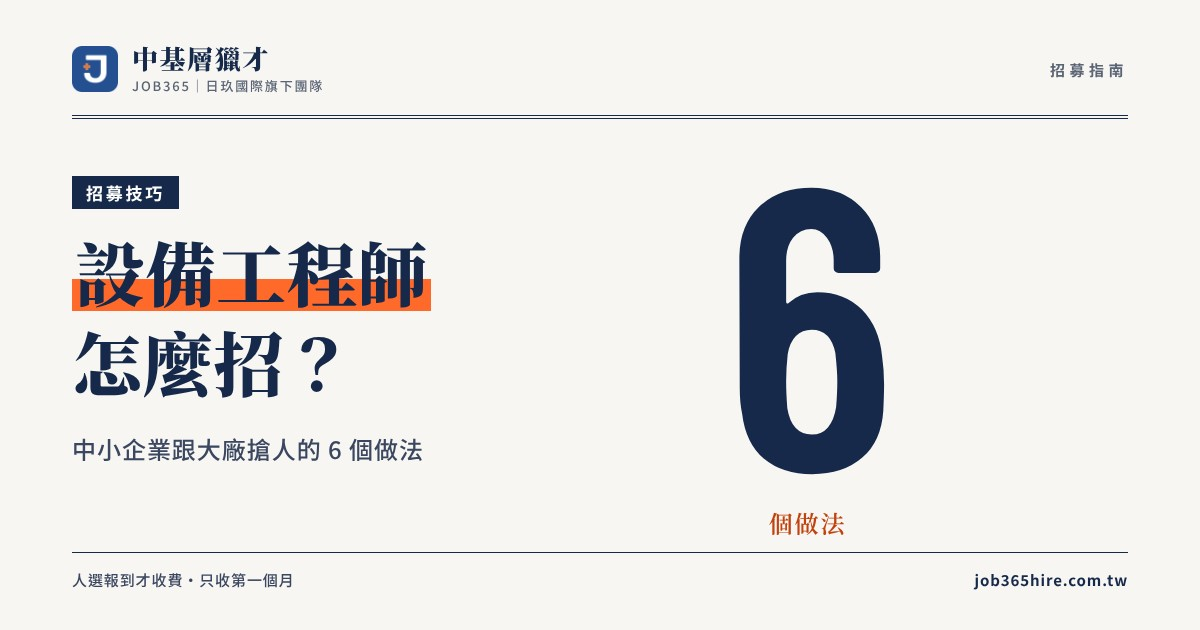
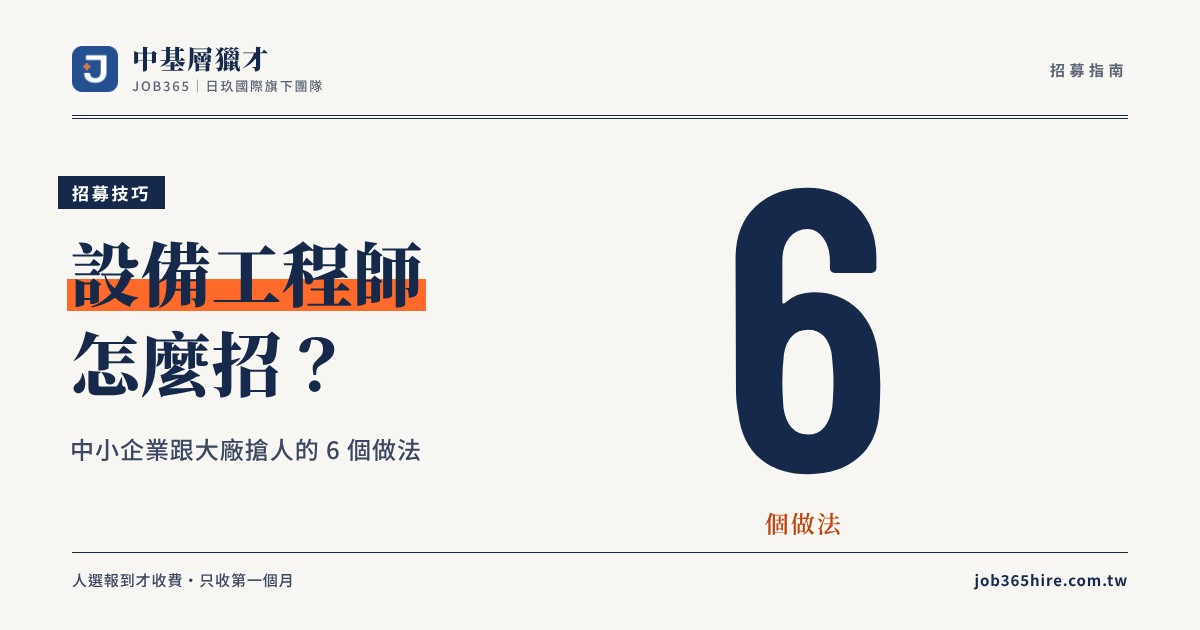
封面對齊修正：標籤文字與標題左緣對齊，數字單位改放數字旁
Claude-Session: https://claude.ai/code/session_01QrdtCWQutDZ8DS6ZUmwoLm

diff --git a/hire/guide/what-is-recruitment-outsourcing.html b/hire/guide/what-is-recruitment-outsourcing.html
@@ -79,10 +79,10 @@ visibleID = setInterval(() => {
 <meta property="og:type" content="article">
 <meta property="og:title" content="代招是什麼？正職代招和派遣、人力銀行、獵頭一次比較">
 <meta property="og:description" content="代招（正職代招、委託招募）是企業委託代招團隊找人、篩人，人選錄取後直接成為企業自己的正職員工，勞健保由企業投保。本文整理代招和派遣、人力銀行、獵頭的差別，代招收費的法定上限、委託流程、不適合用代招的情況與常見問題。">
-<meta property="og:image" content="https://job365hire.com.tw/hire/guide/cover-what-is-recruitment-outsourcing.jpg?v=3">
+<meta property="og:image" content="https://job365hire.com.tw/hire/guide/cover-what-is-recruitment-outsourcing.jpg?v=4">
 <meta property="og:url" content="https://job365hire.com.tw/hire/guide/what-is-recruitment-outsourcing.html">
 <script type="application/ld+json">
-[{"@context": "https://schema.org", "@type": "Article", "headline": "代招是什麼？正職代招和派遣、人力銀行、獵頭一次比較", "datePublished": "2026-10-30", "dateModified": "2026-11-12", "about": "正職代招", "keywords": "代招,代招是什麼,正職代招,委託招募,代招費用,代招收費上限,代招公司,代招 派遣 差別,代招 勞健保,中基層獵才,人力仲介,人力仲介 代招 差別", "inLanguage": "zh-Hant-TW", "image": "https://job365hire.com.tw/hire/guide/cover-what-is-recruitment-outsourcing.jpg?v=3", "author": {"@id": "https://job365hire.com.tw/#org"}, "publisher": {"@id": "https://job365hire.com.tw/#org"}, "mainEntityOfPage": "https://job365hire.com.tw/hire/guide/what-is-recruitment-outsourcing.html", "description": "代招（正職代招、委託招募）是企業委託代招團隊找人、篩人，人選錄取後直接成為企業自己的正職員工，勞健保由企業投保。本文整理代招和派遣、人力銀行、獵頭的差別，代招收費的法定上限、委託流程、不適合用代招的情況與常見問題。"}, {"@context": "https://schema.org", "@type": "BreadcrumbList", "itemListElement": [{"@type": "ListItem", "position": 1, "name": "JOB365", "item": "https://job365hire.com.tw/"}, {"@type": "ListItem", "position": 2, "name": "正職代招", "item": "https://job365hire.com.tw/hire/"}, {"@type": "ListItem", "position": 3, "name": "招募指南", "item": "https://job365hire.com.tw/hire/guide/"}, {"@type": "ListItem", "position": 4, "name": "代招是什麼？"}]}, {"@context": "https://schema.org", "@type": "FAQPage", "mainEntity": [{"@type": "Question", "name": "代招是什麼意思？", "acceptedAnswer": {"@type": "Answer", "text": "代招又稱正職代招、委託招募，是企業委託代招團隊找人、篩人、安排面試，人選錄取後直接和企業簽約，成為企業自己的正職員工。"}}, {"@type": "Question", "name": "正職代招和派遣有什麼不同？", "acceptedAnswer": {"@type": "Answer", "text": "正職代招的人選錄取後直接成為企業的正職員工；派遣人員和派遣公司簽約，企業是要派單位，費用每月持續支付。"}}, {"@type": "Question", "name": "正職代招和人力銀行有什麼不同？", "acceptedAnswer": {"@type": "Answer", "text": "人力銀行由企業自己刊登、自己篩選；正職代招由顧問主動獵才、一對一面談後才推薦人選。"}}, {"@type": "Question", "name": "人力仲介和正職代招有什麼不同？", "acceptedAnswer": {"@type": "Answer", "text": "人力仲介多半指引進外籍移工的跨國仲介；正職代招找的是本國籍中基層正職員工，錄取後直接成為企業的員工。兩者都是私立就業服務機構的業務，都需要許可。"}}, {"@type": "Question", "name": "代招找到的員工，勞健保算誰的？", "acceptedAnswer": {"@type": "Answer", "text": "算企業的。人選錄取後和企業簽勞動契約，由企業發薪、投保勞健保與提繳勞退，代招公司不是雇主。"}}, {"@type": "Question", "name": "代招收費有沒有上限？", "acceptedAnswer": {"@type": "Answer", "text": "有。依勞動部〈私立就業服務機構收費項目及金額標準〉，員工第一個月薪資在平均薪資以下者，登記費及介紹費合計不得超過其第一個月薪資；超過平均薪資者不得超過四個月薪資；服務費每人每年不得超過 2,000 元。"}}, {"@type": "Question", "name": "代招費用一定要人選到職才付嗎？", "acceptedAnswer": {"@type": "Answer", "text": "各家做法不同，委託前要問清楚。中基層獵才不收開案費、訂金，人選報到才收費。"}}, {"@type": "Question", "name": "什麼職缺適合正職代招？", "acceptedAnswer": {"@type": "Answer", "text": "會計、客服、設備工程師、倉管、助理工程師、行政與業務助理等中基層正職，特別適合職缺開很久沒人投、沒有專職 HR 或一次要補多人的企業。"}}, {"@type": "Question", "name": "公司規模小，也可以用代招嗎？", "acceptedAnswer": {"@type": "Answer", "text": "可以。沒有專職 HR 的中小企業反而最適合，由顧問處理找人、篩人與面試安排，老闆只需要面試最後幾位人選。"}}, {"@type": "Question", "name": "正職代招怎麼收費？", "acceptedAnswer": {"@type": "Answer", "text": "中基層獵才人選報到才收費，只收第一個月，依職缺 500～2,000 元／天，最多約人選一個月薪資，第二個月起不再收費。"}}]}]
+[{"@context": "https://schema.org", "@type": "Article", "headline": "代招是什麼？正職代招和派遣、人力銀行、獵頭一次比較", "datePublished": "2026-10-30", "dateModified": "2026-11-12", "about": "正職代招", "keywords": "代招,代招是什麼,正職代招,委託招募,代招費用,代招收費上限,代招公司,代招 派遣 差別,代招 勞健保,中基層獵才,人力仲介,人力仲介 代招 差別", "inLanguage": "zh-Hant-TW", "image": "https://job365hire.com.tw/hire/guide/cover-what-is-recruitment-outsourcing.jpg?v=4", "author": {"@id": "https://job365hire.com.tw/#org"}, "publisher": {"@id": "https://job365hire.com.tw/#org"}, "mainEntityOfPage": "https://job365hire.com.tw/hire/guide/what-is-recruitment-outsourcing.html", "description": "代招（正職代招、委託招募）是企業委託代招團隊找人、篩人，人選錄取後直接成為企業自己的正職員工，勞健保由企業投保。本文整理代招和派遣、人力銀行、獵頭的差別，代招收費的法定上限、委託流程、不適合用代招的情況與常見問題。"}, {"@context": "https://schema.org", "@type": "BreadcrumbList", "itemListElement": [{"@type": "ListItem", "position": 1, "name": "JOB365", "item": "https://job365hire.com.tw/"}, {"@type": "ListItem", "position": 2, "name": "正職代招", "item": "https://job365hire.com.tw/hire/"}, {"@type": "ListItem", "position": 3, "name": "招募指南", "item": "https://job365hire.com.tw/hire/guide/"}, {"@type": "ListItem", "position": 4, "name": "代招是什麼？"}]}, {"@context": "https://schema.org", "@type": "FAQPage", "mainEntity": [{"@type": "Question", "name": "代招是什麼意思？", "acceptedAnswer": {"@type": "Answer", "text": "代招又稱正職代招、委託招募，是企業委託代招團隊找人、篩人、安排面試，人選錄取後直接和企業簽約，成為企業自己的正職員工。"}}, {"@type": "Question", "name": "正職代招和派遣有什麼不同？", "acceptedAnswer": {"@type": "Answer", "text": "正職代招的人選錄取後直接成為企業的正職員工；派遣人員和派遣公司簽約，企業是要派單位，費用每月持續支付。"}}, {"@type": "Question", "name": "正職代招和人力銀行有什麼不同？", "acceptedAnswer": {"@type": "Answer", "text": "人力銀行由企業自己刊登、自己篩選；正職代招由顧問主動獵才、一對一面談後才推薦人選。"}}, {"@type": "Question", "name": "人力仲介和正職代招有什麼不同？", "acceptedAnswer": {"@type": "Answer", "text": "人力仲介多半指引進外籍移工的跨國仲介；正職代招找的是本國籍中基層正職員工，錄取後直接成為企業的員工。兩者都是私立就業服務機構的業務，都需要許可。"}}, {"@type": "Question", "name": "代招找到的員工，勞健保算誰的？", "acceptedAnswer": {"@type": "Answer", "text": "算企業的。人選錄取後和企業簽勞動契約，由企業發薪、投保勞健保與提繳勞退，代招公司不是雇主。"}}, {"@type": "Question", "name": "代招收費有沒有上限？", "acceptedAnswer": {"@type": "Answer", "text": "有。依勞動部〈私立就業服務機構收費項目及金額標準〉，員工第一個月薪資在平均薪資以下者，登記費及介紹費合計不得超過其第一個月薪資；超過平均薪資者不得超過四個月薪資；服務費每人每年不得超過 2,000 元。"}}, {"@type": "Question", "name": "代招費用一定要人選到職才付嗎？", "acceptedAnswer": {"@type": "Answer", "text": "各家做法不同，委託前要問清楚。中基層獵才不收開案費、訂金，人選報到才收費。"}}, {"@type": "Question", "name": "什麼職缺適合正職代招？", "acceptedAnswer": {"@type": "Answer", "text": "會計、客服、設備工程師、倉管、助理工程師、行政與業務助理等中基層正職，特別適合職缺開很久沒人投、沒有專職 HR 或一次要補多人的企業。"}}, {"@type": "Question", "name": "公司規模小，也可以用代招嗎？", "acceptedAnswer": {"@type": "Answer", "text": "可以。沒有專職 HR 的中小企業反而最適合，由顧問處理找人、篩人與面試安排，老闆只需要面試最後幾位人選。"}}, {"@type": "Question", "name": "正職代招怎麼收費？", "acceptedAnswer": {"@type": "Answer", "text": "中基層獵才人選報到才收費，只收第一個月，依職缺 500～2,000 元／天，最多約人選一個月薪資，第二個月起不再收費。"}}]}]
 </script>
 
 <script>!function(f,b,e,v,n,t,s){if(f.fbq)return;n=f.fbq=function(){n.callMethod?n.callMethod.apply(n,arguments):n.queue.push(arguments)};if(!f._fbq)f._fbq=n;n.push=n;n.loaded=!0;n.version='2.0';n.queue=[];t=b.createElement(e);t.async=!0;t.src=v;s=b.getElementsByTagName(e)[0];s.parentNode.insertBefore(t,s)}(window,document,'script','https://connect.facebook.net/en_US/fbevents.js');fbq('init','1635805244779203');fbq('track','PageView');document.addEventListener('click',function(e){var a=e.target.closest&&e.target.closest('a[href]');if(a&&/^(tel:|https:\/\/(line\.me|lin\.ee)\/)/.test(a.getAttribute('href')))fbq('track','Contact');});</script>
@@ -107,7 +107,7 @@ visibleID = setInterval(() => {
   <p class="tag">代招入門</p>
   <h1>代招是什麼？正職代招和派遣、人力銀行、獵頭一次比較</h1>
   <p class="meta">JOB365中基層獵才・2026 年 10 月 30 日發布・<time datetime="2026-11-11">2026 年 11 月 11 日更新</time></p>
-  <img class="cover" src="/hire/guide/cover-what-is-recruitment-outsourcing.jpg?v=3" alt="代招是什麼？正職代招和派遣、人力銀行、獵頭一次比較" width="1200" height="630" style="width:100%;height:auto">
+  <img class="cover" src="/hire/guide/cover-what-is-recruitment-outsourcing.jpg?v=4" alt="代招是什麼？正職代招和派遣、人力銀行、獵頭一次比較" width="1200" height="630" style="width:100%;height:auto">
 
   <p class="answer"><b>簡答：</b>代招（正職代招、委託招募）是企業把找人、篩人、安排面試交給代招團隊，人選錄取後直接和企業簽約、成為企業自己的正職員工，勞健保由企業投保；派遣人員則屬於派遣公司，企業每月持續支付派遣費。代招的收費依法有上限，中基層獵才只收第一個月、最多約一個月薪資。適合要補長期正職、又沒時間自己篩人的企業；只需要幾週到幾個月的短期人力，則比較適合派遣。</p>
 

diff --git a/hire/guide/recruitment-fee.html b/hire/guide/recruitment-fee.html
@@ -79,9 +79,9 @@ visibleID = setInterval(() => {
 <meta property="og:type" content="article">
 <meta property="og:title" content="徵才費用怎麼算？人力銀行刊登、獵頭、正職代招收費比較">
 <meta property="og:description" content="徵才費用怎麼算？比較人力銀行刊登、獵頭與正職代招的收費方式、適用情境與費用差異。中基層獵才採人選報到才收費，只收第一個月，最多約一個月薪資；附作業員費用試算。">
-<meta property="og:image" content="https://job365hire.com.tw/hire/guide/cover-recruitment-fee.jpg?v=3">
+<meta property="og:image" content="https://job365hire.com.tw/hire/guide/cover-recruitment-fee.jpg?v=4">
 <meta property="og:url" content="https://job365hire.com.tw/hire/guide/recruitment-fee.html">
-<script type="application/ld+json">[{"@context": "https://schema.org", "@type": "Article", "headline": "徵才費用怎麼算？人力銀行刊登、獵頭、正職代招收費比較", "datePublished": "2026-10-30", "dateModified": "2026-11-11", "about": "正職代招", "keywords": "徵才費用,求才費用,徵人費用,找人才費用,人力銀行刊登費用,正職代招費用,代招費用,代招收費,代招收費上限,私立就業服務機構收費標準,獵頭費用,基層招募費用,中基層獵才", "inLanguage": "zh-Hant-TW", "image": "https://job365hire.com.tw/hire/guide/cover-recruitment-fee.jpg?v=3", "author": {"@id": "https://job365hire.com.tw/#org"}, "publisher": {"@id": "https://job365hire.com.tw/#org"}, "mainEntityOfPage": "https://job365hire.com.tw/hire/guide/recruitment-fee.html"}, {"@context": "https://schema.org", "@type": "BreadcrumbList", "itemListElement": [{"@type": "ListItem", "position": 1, "name": "JOB365", "item": "https://job365hire.com.tw/"}, {"@type": "ListItem", "position": 2, "name": "正職代招", "item": "https://job365hire.com.tw/hire/"}, {"@type": "ListItem", "position": 3, "name": "招募指南", "item": "https://job365hire.com.tw/hire/guide/"}, {"@type": "ListItem", "position": 4, "name": "正職代招費用怎麼算？"}]}, {"@context": "https://schema.org", "@type": "FAQPage", "mainEntity": [{"@type": "Question", "name": "人力銀行刊登徵才要多少錢？", "acceptedAnswer": {"@type": "Answer", "text": "以 104 人力銀行為例，2026 年 11 月公告的刊登方案原價為 30 天 4,600 元、90 天 9,200 元、365 天 34,500 元；新客首購另有 10 天單職缺 588 元、60 天 3 職缺 3,988 元的體驗方案。刊登費買的是職缺曝光，不保證找到人，篩選與面試仍需企業自己處理。方案價格常調整，以官方最新公告為準。"}}, {"@type": "Question", "name": "正職代招費用怎麼算？", "acceptedAnswer": {"@type": "Answer", "text": "中基層獵才的正職代招只收人選第一個月：依職缺 500～2,000 元／天計算，最多約人選一個月薪資，第二個月起不再收費。人選沒有報到就不收費。"}}, {"@type": "Question", "name": "代招收費有沒有法定上限？", "acceptedAnswer": {"@type": "Answer", "text": "有。依勞動部〈私立就業服務機構收費項目及金額標準〉，員工第一個月薪資在平均薪資以下者，登記費及介紹費合計不得超過其第一個月薪資；超過平均薪資者不得超過四個月薪資；服務費每人每年不得超過 2,000 元。"}}, {"@type": "Question", "name": "代招需要先付訂金或開案費嗎？", "acceptedAnswer": {"@type": "Answer", "text": "不需要。中基層獵才不收開案費、訂金，人選報到才收費。"}}, {"@type": "Question", "name": "人選做不滿一個月怎麼算？", "acceptedAnswer": {"@type": "Answer", "text": "人選到職未滿 30 天，按實際在職天數計費，例如日費 500 元、做 10 天就是 5,000 元。"}}, {"@type": "Question", "name": "獵頭一般怎麼收費？", "acceptedAnswer": {"@type": "Answer", "text": "根據 104 職場力整理，獵頭多以年薪的 20%～35% 收費，月薪型專案約 1～3 個月月薪，主要針對中高階職位。"}}, {"@type": "Question", "name": "招一位作業員，代招費用大概多少？", "acceptedAnswer": {"@type": "Answer", "text": "以月薪 32,000 元為例，法定上限是 32,000 元；中基層獵才依職缺 500～2,000 元／天、按第一個月在職天數計算；日費 500 元時做滿一個月是 15,000 元，不超過法定上限。"}}, {"@type": "Question", "name": "中基層獵才有保證期或免費遞補嗎？", "acceptedAnswer": {"@type": "Answer", "text": "中基層獵才不同於高額抽成保固模式，採取平價收費，目前無另設保證期。費用依人選第一個月實際在職天數計算，依職缺 500～2,000 元／天，例如日費 500 元、人選做 10 天，費用就是 5,000 元；到職未滿 30 天的情況，顧問也會再依實際狀況跟你討論。人選報到後第一週顧問會主動關心，之後持續追蹤適應狀況。"}}]}]</script>
+<script type="application/ld+json">[{"@context": "https://schema.org", "@type": "Article", "headline": "徵才費用怎麼算？人力銀行刊登、獵頭、正職代招收費比較", "datePublished": "2026-10-30", "dateModified": "2026-11-11", "about": "正職代招", "keywords": "徵才費用,求才費用,徵人費用,找人才費用,人力銀行刊登費用,正職代招費用,代招費用,代招收費,代招收費上限,私立就業服務機構收費標準,獵頭費用,基層招募費用,中基層獵才", "inLanguage": "zh-Hant-TW", "image": "https://job365hire.com.tw/hire/guide/cover-recruitment-fee.jpg?v=4", "author": {"@id": "https://job365hire.com.tw/#org"}, "publisher": {"@id": "https://job365hire.com.tw/#org"}, "mainEntityOfPage": "https://job365hire.com.tw/hire/guide/recruitment-fee.html"}, {"@context": "https://schema.org", "@type": "BreadcrumbList", "itemListElement": [{"@type": "ListItem", "position": 1, "name": "JOB365", "item": "https://job365hire.com.tw/"}, {"@type": "ListItem", "position": 2, "name": "正職代招", "item": "https://job365hire.com.tw/hire/"}, {"@type": "ListItem", "position": 3, "name": "招募指南", "item": "https://job365hire.com.tw/hire/guide/"}, {"@type": "ListItem", "position": 4, "name": "正職代招費用怎麼算？"}]}, {"@context": "https://schema.org", "@type": "FAQPage", "mainEntity": [{"@type": "Question", "name": "人力銀行刊登徵才要多少錢？", "acceptedAnswer": {"@type": "Answer", "text": "以 104 人力銀行為例，2026 年 11 月公告的刊登方案原價為 30 天 4,600 元、90 天 9,200 元、365 天 34,500 元；新客首購另有 10 天單職缺 588 元、60 天 3 職缺 3,988 元的體驗方案。刊登費買的是職缺曝光，不保證找到人，篩選與面試仍需企業自己處理。方案價格常調整，以官方最新公告為準。"}}, {"@type": "Question", "name": "正職代招費用怎麼算？", "acceptedAnswer": {"@type": "Answer", "text": "中基層獵才的正職代招只收人選第一個月：依職缺 500～2,000 元／天計算，最多約人選一個月薪資，第二個月起不再收費。人選沒有報到就不收費。"}}, {"@type": "Question", "name": "代招收費有沒有法定上限？", "acceptedAnswer": {"@type": "Answer", "text": "有。依勞動部〈私立就業服務機構收費項目及金額標準〉，員工第一個月薪資在平均薪資以下者，登記費及介紹費合計不得超過其第一個月薪資；超過平均薪資者不得超過四個月薪資；服務費每人每年不得超過 2,000 元。"}}, {"@type": "Question", "name": "代招需要先付訂金或開案費嗎？", "acceptedAnswer": {"@type": "Answer", "text": "不需要。中基層獵才不收開案費、訂金，人選報到才收費。"}}, {"@type": "Question", "name": "人選做不滿一個月怎麼算？", "acceptedAnswer": {"@type": "Answer", "text": "人選到職未滿 30 天，按實際在職天數計費，例如日費 500 元、做 10 天就是 5,000 元。"}}, {"@type": "Question", "name": "獵頭一般怎麼收費？", "acceptedAnswer": {"@type": "Answer", "text": "根據 104 職場力整理，獵頭多以年薪的 20%～35% 收費，月薪型專案約 1～3 個月月薪，主要針對中高階職位。"}}, {"@type": "Question", "name": "招一位作業員，代招費用大概多少？", "acceptedAnswer": {"@type": "Answer", "text": "以月薪 32,000 元為例，法定上限是 32,000 元；中基層獵才依職缺 500～2,000 元／天、按第一個月在職天數計算；日費 500 元時做滿一個月是 15,000 元，不超過法定上限。"}}, {"@type": "Question", "name": "中基層獵才有保證期或免費遞補嗎？", "acceptedAnswer": {"@type": "Answer", "text": "中基層獵才不同於高額抽成保固模式，採取平價收費，目前無另設保證期。費用依人選第一個月實際在職天數計算，依職缺 500～2,000 元／天，例如日費 500 元、人選做 10 天，費用就是 5,000 元；到職未滿 30 天的情況，顧問也會再依實際狀況跟你討論。人選報到後第一週顧問會主動關心，之後持續追蹤適應狀況。"}}]}]</script>
 
 <script>!function(f,b,e,v,n,t,s){if(f.fbq)return;n=f.fbq=function(){n.callMethod?n.callMethod.apply(n,arguments):n.queue.push(arguments)};if(!f._fbq)f._fbq=n;n.push=n;n.loaded=!0;n.version='2.0';n.queue=[];t=b.createElement(e);t.async=!0;t.src=v;s=b.getElementsByTagName(e)[0];s.parentNode.insertBefore(t,s)}(window,document,'script','https://connect.facebook.net/en_US/fbevents.js');fbq('init','1635805244779203');fbq('track','PageView');document.addEventListener('click',function(e){var a=e.target.closest&&e.target.closest('a[href]');if(a&&/^(tel:|https:\/\/(line\.me|lin\.ee)\/)/.test(a.getAttribute('href')))fbq('track','Contact');});</script>
 <noscript><img height="1" width="1" style="display:none" src="https://www.facebook.com/tr?id=1635805244779203&ev=PageView&noscript=1" alt=""></noscript>
@@ -105,7 +105,7 @@ visibleID = setInterval(() => {
   <p class="tag">招募費用</p>
   <h1>徵才費用怎麼算？人力銀行刊登、獵頭、正職代招收費比較</h1>
   <p class="meta">JOB365中基層獵才・2026 年 10 月 30 日發布・<time datetime="2026-11-11">2026 年 11 月 11 日更新</time></p>
-  <img class="cover" src="/hire/guide/cover-recruitment-fee.jpg?v=3" alt="徵才費用怎麼算？人力銀行刊登、獵頭、正職代招收費比較" width="1200" height="630" style="width:100%;height:auto">
+  <img class="cover" src="/hire/guide/cover-recruitment-fee.jpg?v=4" alt="徵才費用怎麼算？人力銀行刊登、獵頭、正職代招收費比較" width="1200" height="630" style="width:100%;height:auto">
 
   <p class="answer"><b>簡答：</b>徵才費用（也常說求才費用、徵人費用、找人才費用）主要有 3 種：自己刊登人力銀行，以 104 為例原價 30 天 4,600 元、90 天 9,200 元，新客另有 10 天 588 元的體驗方案，但買到的是職缺曝光，不保證找到人。找獵頭多收年薪的 20%～35%。中基層獵才的正職代招則是人選報到才收費，只收第一個月，依職缺每天 500～2,000 元，最多約人選一個月薪資，第二個月起不再收費。中小企業補中基層正職時，HR 有時間自己篩履歷，可以先刊登人力銀行；沒時間篩人、職缺又空了一段時間，就交給正職代招，費用最多約一個月薪資，比月薪計費的獵頭低。</p>
 

diff --git a/hire/guide/equipment-engineer-hiring.html b/hire/guide/equipment-engineer-hiring.html
@@ -79,10 +79,10 @@ visibleID = setInterval(() => {
 <meta property="og:type" content="article">
 <meta property="og:title" content="設備工程師怎麼招？中小企業跟大廠搶人的 6 個做法">
 <meta property="og:description" content="半導體廠與設備商大舉擴編，設備工程師越來越難招。整理全台各區的招募重點，以及中小企業可以馬上做的 6 件事：寫清楚機台與班別、實拿薪資、放寬背景、情境面試、加快錄取與交給正職代招。">
-<meta property="og:image" content="https://job365hire.com.tw/hire/guide/cover-equipment-engineer-hiring.jpg?v=3">
+<meta property="og:image" content="https://job365hire.com.tw/hire/guide/cover-equipment-engineer-hiring.jpg?v=4">
 <meta property="og:url" content="https://job365hire.com.tw/hire/guide/equipment-engineer-hiring.html">
 <script type="application/ld+json">
-[{"@context": "https://schema.org", "@type": "Article", "headline": "設備工程師怎麼招？中小企業跟大廠搶人的 6 個做法", "description": "半導體廠與設備商大舉擴編，設備工程師越來越難招。整理全台各區的招募重點，以及中小企業可以馬上做的 6 件事：寫清楚機台與班別、實拿薪資、放寬背景、情境面試、加快錄取與交給正職代招。", "datePublished": "2026-11-12", "dateModified": "2026-11-12", "about": "正職代招", "keywords": "設備工程師怎麼招,設備工程師招募,設備工程師難招,設備助理工程師,半導體缺工,正職代招", "inLanguage": "zh-Hant-TW", "image": "https://job365hire.com.tw/hire/guide/cover-equipment-engineer-hiring.jpg?v=3", "author": {"@id": "https://job365hire.com.tw/#org"}, "publisher": {"@id": "https://job365hire.com.tw/#org"}, "mainEntityOfPage": "https://job365hire.com.tw/hire/guide/equipment-engineer-hiring.html"}, {"@context": "https://schema.org", "@type": "BreadcrumbList", "itemListElement": [{"@type": "ListItem", "position": 1, "name": "JOB365", "item": "https://job365hire.com.tw/"}, {"@type": "ListItem", "position": 2, "name": "正職代招", "item": "https://job365hire.com.tw/hire/"}, {"@type": "ListItem", "position": 3, "name": "招募指南", "item": "https://job365hire.com.tw/hire/guide/"}, {"@type": "ListItem", "position": 4, "name": "設備工程師怎麼招？"}]}, {"@context": "https://schema.org", "@type": "FAQPage", "mainEntity": [{"@type": "Question", "name": "設備工程師為什麼這麼難招？", "acceptedAnswer": {"@type": "Answer", "text": "半導體廠、設備商與供應鏈同時擴編。104 與工研院調查，2025 年 5 月半導體業操作／技術／維修類缺約 7,000 人，有經驗的人選很搶手。"}}, {"@type": "Question", "name": "設備工程師和設備助理工程師差在哪？", "acceptedAnswer": {"@type": "Answer", "text": "設備工程師通常要能獨立排除機台故障；設備助理工程師多以協助保養、記錄數據為主，比較適合招新鮮人或轉職者培養。"}}, {"@type": "Question", "name": "設備工程師人選最在意什麼？", "acceptedAnswer": {"@type": "Answer", "text": "依 JOB365中基層獵才顧問的經驗，設備工程師人選多在 35～45 歲，除了薪資，也很在意班別、體力負擔、工作壓力和家庭時間。輪班方式是很重要的考量。"}}, {"@type": "Question", "name": "設備工程師職缺要怎麼寫才有人投？", "acceptedAnswer": {"@type": "Answer", "text": "寫出產業與機台類型、班別、要不要 on call 與出差，以及含津貼的實拿薪資範圍，並註明願意培養電機、機械背景的人。"}}, {"@type": "Question", "name": "設備工程師可以找代招嗎？", "acceptedAnswer": {"@type": "Answer", "text": "可以。JOB365中基層獵才服務全台，人選報到才收費，只收第一個月、最多約一個月薪資，第二個月起不再收費。"}}]}]
+[{"@context": "https://schema.org", "@type": "Article", "headline": "設備工程師怎麼招？中小企業跟大廠搶人的 6 個做法", "description": "半導體廠與設備商大舉擴編，設備工程師越來越難招。整理全台各區的招募重點，以及中小企業可以馬上做的 6 件事：寫清楚機台與班別、實拿薪資、放寬背景、情境面試、加快錄取與交給正職代招。", "datePublished": "2026-11-12", "dateModified": "2026-11-12", "about": "正職代招", "keywords": "設備工程師怎麼招,設備工程師招募,設備工程師難招,設備助理工程師,半導體缺工,正職代招", "inLanguage": "zh-Hant-TW", "image": "https://job365hire.com.tw/hire/guide/cover-equipment-engineer-hiring.jpg?v=4", "author": {"@id": "https://job365hire.com.tw/#org"}, "publisher": {"@id": "https://job365hire.com.tw/#org"}, "mainEntityOfPage": "https://job365hire.com.tw/hire/guide/equipment-engineer-hiring.html"}, {"@context": "https://schema.org", "@type": "BreadcrumbList", "itemListElement": [{"@type": "ListItem", "position": 1, "name": "JOB365", "item": "https://job365hire.com.tw/"}, {"@type": "ListItem", "position": 2, "name": "正職代招", "item": "https://job365hire.com.tw/hire/"}, {"@type": "ListItem", "position": 3, "name": "招募指南", "item": "https://job365hire.com.tw/hire/guide/"}, {"@type": "ListItem", "position": 4, "name": "設備工程師怎麼招？"}]}, {"@context": "https://schema.org", "@type": "FAQPage", "mainEntity": [{"@type": "Question", "name": "設備工程師為什麼這麼難招？", "acceptedAnswer": {"@type": "Answer", "text": "半導體廠、設備商與供應鏈同時擴編。104 與工研院調查，2025 年 5 月半導體業操作／技術／維修類缺約 7,000 人，有經驗的人選很搶手。"}}, {"@type": "Question", "name": "設備工程師和設備助理工程師差在哪？", "acceptedAnswer": {"@type": "Answer", "text": "設備工程師通常要能獨立排除機台故障；設備助理工程師多以協助保養、記錄數據為主，比較適合招新鮮人或轉職者培養。"}}, {"@type": "Question", "name": "設備工程師人選最在意什麼？", "acceptedAnswer": {"@type": "Answer", "text": "依 JOB365中基層獵才顧問的經驗，設備工程師人選多在 35～45 歲，除了薪資，也很在意班別、體力負擔、工作壓力和家庭時間。輪班方式是很重要的考量。"}}, {"@type": "Question", "name": "設備工程師職缺要怎麼寫才有人投？", "acceptedAnswer": {"@type": "Answer", "text": "寫出產業與機台類型、班別、要不要 on call 與出差，以及含津貼的實拿薪資範圍，並註明願意培養電機、機械背景的人。"}}, {"@type": "Question", "name": "設備工程師可以找代招嗎？", "acceptedAnswer": {"@type": "Answer", "text": "可以。JOB365中基層獵才服務全台，人選報到才收費，只收第一個月、最多約一個月薪資，第二個月起不再收費。"}}]}]
 </script>
 
 <script>!function(f,b,e,v,n,t,s){if(f.fbq)return;n=f.fbq=function(){n.callMethod?n.callMethod.apply(n,arguments):n.queue.push(arguments)};if(!f._fbq)f._fbq=n;n.push=n;n.loaded=!0;n.version='2.0';n.queue=[];t=b.createElement(e);t.async=!0;t.src=v;s=b.getElementsByTagName(e)[0];s.parentNode.insertBefore(t,s)}(window,document,'script','https://connect.facebook.net/en_US/fbevents.js');fbq('init','1635805244779203');fbq('track','PageView');document.addEventListener('click',function(e){var a=e.target.closest&&e.target.closest('a[href]');if(a&&/^(tel:|https:\/\/(line\.me|lin\.ee)\/)/.test(a.getAttribute('href')))fbq('track','Contact');});</script>
@@ -107,7 +107,7 @@ visibleID = setInterval(() => {
   <p class="tag">招募技巧</p>
   <h1>設備工程師怎麼招？中小企業跟大廠搶人的 6 個做法</h1>
   <p class="meta">JOB365中基層獵才・2026 年 11 月 12 日</p>
-  <img class="cover" src="/hire/guide/cover-equipment-engineer-hiring.jpg?v=3" alt="設備工程師怎麼招？中小企業跟大廠搶人的 6 個做法" width="1200" height="630" style="width:100%;height:auto">
+  <img class="cover" src="/hire/guide/cover-equipment-engineer-hiring.jpg?v=4" alt="設備工程師怎麼招？中小企業跟大廠搶人的 6 個做法" width="1200" height="630" style="width:100%;height:auto">
 
   <p class="answer"><b>簡答：</b>設備工程師難招，是因為半導體廠、設備商和供應鏈同時擴編，有經驗的人選被搶得很兇。中小企業要先講清楚是哪種機台、什麼班別、要不要 on call 和出差、實拿薪資範圍，願意培養電機、機械背景的人，面試當天就給答覆。如果職缺開了一個月還約不到合適的人，就適合交給正職代招主動找人。</p>
 

diff --git a/hire/guide/hsinchu-operator-salary.html b/hire/guide/hsinchu-operator-salary.html
@@ -79,10 +79,10 @@ visibleID = setInterval(() => {
 <meta property="og:type" content="article">
 <meta property="og:title" content="新竹作業員薪資行情怎麼看？2027 基本工資調漲後的招募重點">
 <meta property="og:description" content="2027 年起基本工資調為月薪 30,900 元、時薪 205 元。整理新竹作業員薪資行情怎麼查、竹科大廠搶人下中小企業的招募重點，以及日玖國際旗下中基層獵才的正職代招收費方式。">
-<meta property="og:image" content="https://job365hire.com.tw/hire/guide/cover-hsinchu-operator-salary.jpg?v=3">
+<meta property="og:image" content="https://job365hire.com.tw/hire/guide/cover-hsinchu-operator-salary.jpg?v=4">
 <meta property="og:url" content="https://job365hire.com.tw/hire/guide/hsinchu-operator-salary.html">
 <script type="application/ld+json">
-[{"@context": "https://schema.org", "@type": "Article", "headline": "新竹作業員薪資行情怎麼看？2027 基本工資調漲後的招募重點", "description": "2027 年起基本工資調為月薪 30,900 元、時薪 205 元。整理新竹作業員薪資行情怎麼查、竹科大廠搶人下中小企業的招募重點，以及日玖國際旗下中基層獵才的正職代招收費方式。", "datePublished": "2026-11-07", "dateModified": "2026-11-07", "about": ["新竹作業員薪資", "正職代招"], "keywords": "新竹作業員薪資,新竹作業員招募,2027基本工資,竹科缺工,新竹代招,正職代招", "inLanguage": "zh-Hant-TW", "image": "https://job365hire.com.tw/hire/guide/cover-hsinchu-operator-salary.jpg?v=3", "author": {"@id": "https://job365hire.com.tw/#org"}, "publisher": {"@id": "https://job365hire.com.tw/#org"}, "mainEntityOfPage": "https://job365hire.com.tw/hire/guide/hsinchu-operator-salary.html"}, {"@context": "https://schema.org", "@type": "BreadcrumbList", "itemListElement": [{"@type": "ListItem", "position": 1, "name": "JOB365", "item": "https://job365hire.com.tw/"}, {"@type": "ListItem", "position": 2, "name": "正職代招", "item": "https://job365hire.com.tw/hire/"}, {"@type": "ListItem", "position": 3, "name": "招募指南", "item": "https://job365hire.com.tw/hire/guide/"}, {"@type": "ListItem", "position": 4, "name": "新竹作業員薪資行情"}]}, {"@context": "https://schema.org", "@type": "FAQPage", "mainEntity": [{"@type": "Question", "name": "2027 年基本工資是多少？", "acceptedAnswer": {"@type": "Answer", "text": "2027 年 1 月 1 日起，每月最低工資 30,900 元、每小時 205 元，由最低工資審議會於 2026 年 9 月 24 日決議。"}}, {"@type": "Question", "name": "新竹作業員薪資要開多少才有人投？", "acceptedAnswer": {"@type": "Answer", "text": "底薪不得低於 30,900 元；實際開價建議參考同區域、同班別的職缺，並寫出含津貼與加班的實拿範圍。"}}, {"@type": "Question", "name": "新竹中小企業怎麼跟竹科大廠搶作業員？", "acceptedAnswer": {"@type": "Answer", "text": "強調通勤近、班別穩定與福利亮點，並在履歷進來當天聯繫、早點給結果，用速度補足薪資差距。"}}, {"@type": "Question", "name": "新竹有作業員的正職代招服務嗎？", "acceptedAnswer": {"@type": "Answer", "text": "有。中基層獵才是日玖國際旗下團隊，總公司在新竹，人選報到才收費，只收第一個月、最多約一個月薪資。"}}]}]
+[{"@context": "https://schema.org", "@type": "Article", "headline": "新竹作業員薪資行情怎麼看？2027 基本工資調漲後的招募重點", "description": "2027 年起基本工資調為月薪 30,900 元、時薪 205 元。整理新竹作業員薪資行情怎麼查、竹科大廠搶人下中小企業的招募重點，以及日玖國際旗下中基層獵才的正職代招收費方式。", "datePublished": "2026-11-07", "dateModified": "2026-11-07", "about": ["新竹作業員薪資", "正職代招"], "keywords": "新竹作業員薪資,新竹作業員招募,2027基本工資,竹科缺工,新竹代招,正職代招", "inLanguage": "zh-Hant-TW", "image": "https://job365hire.com.tw/hire/guide/cover-hsinchu-operator-salary.jpg?v=4", "author": {"@id": "https://job365hire.com.tw/#org"}, "publisher": {"@id": "https://job365hire.com.tw/#org"}, "mainEntityOfPage": "https://job365hire.com.tw/hire/guide/hsinchu-operator-salary.html"}, {"@context": "https://schema.org", "@type": "BreadcrumbList", "itemListElement": [{"@type": "ListItem", "position": 1, "name": "JOB365", "item": "https://job365hire.com.tw/"}, {"@type": "ListItem", "position": 2, "name": "正職代招", "item": "https://job365hire.com.tw/hire/"}, {"@type": "ListItem", "position": 3, "name": "招募指南", "item": "https://job365hire.com.tw/hire/guide/"}, {"@type": "ListItem", "position": 4, "name": "新竹作業員薪資行情"}]}, {"@context": "https://schema.org", "@type": "FAQPage", "mainEntity": [{"@type": "Question", "name": "2027 年基本工資是多少？", "acceptedAnswer": {"@type": "Answer", "text": "2027 年 1 月 1 日起，每月最低工資 30,900 元、每小時 205 元，由最低工資審議會於 2026 年 9 月 24 日決議。"}}, {"@type": "Question", "name": "新竹作業員薪資要開多少才有人投？", "acceptedAnswer": {"@type": "Answer", "text": "底薪不得低於 30,900 元；實際開價建議參考同區域、同班別的職缺，並寫出含津貼與加班的實拿範圍。"}}, {"@type": "Question", "name": "新竹中小企業怎麼跟竹科大廠搶作業員？", "acceptedAnswer": {"@type": "Answer", "text": "強調通勤近、班別穩定與福利亮點，並在履歷進來當天聯繫、早點給結果，用速度補足薪資差距。"}}, {"@type": "Question", "name": "新竹有作業員的正職代招服務嗎？", "acceptedAnswer": {"@type": "Answer", "text": "有。中基層獵才是日玖國際旗下團隊，總公司在新竹，人選報到才收費，只收第一個月、最多約一個月薪資。"}}]}]
 </script>
 
 <script>!function(f,b,e,v,n,t,s){if(f.fbq)return;n=f.fbq=function(){n.callMethod?n.callMethod.apply(n,arguments):n.queue.push(arguments)};if(!f._fbq)f._fbq=n;n.push=n;n.loaded=!0;n.version='2.0';n.queue=[];t=b.createElement(e);t.async=!0;t.src=v;s=b.getElementsByTagName(e)[0];s.parentNode.insertBefore(t,s)}(window,document,'script','https://connect.facebook.net/en_US/fbevents.js');fbq('init','1635805244779203');fbq('track','PageView');document.addEventListener('click',function(e){var a=e.target.closest&&e.target.closest('a[href]');if(a&&/^(tel:|https:\/\/(line\.me|lin\.ee)\/)/.test(a.getAttribute('href')))fbq('track','Contact');});</script>
@@ -107,7 +107,7 @@ visibleID = setInterval(() => {
   <p class="tag">招募行情</p>
   <h1>新竹作業員薪資行情怎麼看？2027 基本工資調漲後的招募重點</h1>
   <p class="meta">JOB365中基層獵才・2026 年 11 月 7 日</p>
-  <img class="cover" src="/hire/guide/cover-hsinchu-operator-salary.jpg?v=3" alt="新竹作業員薪資行情怎麼看？2027 基本工資調漲後的招募重點" width="1200" height="630" style="width:100%;height:auto">
+  <img class="cover" src="/hire/guide/cover-hsinchu-operator-salary.jpg?v=4" alt="新竹作業員薪資行情怎麼看？2027 基本工資調漲後的招募重點" width="1200" height="630" style="width:100%;height:auto">
 
   <p class="answer"><b>簡答：</b>2027 年起基本工資調為月薪 30,900 元、時薪 205 元，新竹作業員底薪不能低於這條線。竹科大廠持續搶人，中小企業要寫清楚實拿薪資範圍、班別與福利，並加快錄取，才招得到人。</p>
 

diff --git a/hire/guide/operator-hiring.html b/hire/guide/operator-hiring.html
@@ -79,10 +79,10 @@ visibleID = setInterval(() => {
 <meta property="og:type" content="article">
 <meta property="og:title" content="作業員招不到人怎麼辦？中小企業 6 個實用招募方法">
 <meta property="og:description" content="製造業職缺持續增加，作業員越來越難招。整理中小企業可以馬上做的 6 個方法：薪資寫清楚、班別說明、福利亮點、加快錄取流程、多管道曝光與交給正職代招。">
-<meta property="og:image" content="https://job365hire.com.tw/hire/guide/cover-operator-hiring.jpg?v=3">
+<meta property="og:image" content="https://job365hire.com.tw/hire/guide/cover-operator-hiring.jpg?v=4">
 <meta property="og:url" content="https://job365hire.com.tw/hire/guide/operator-hiring.html">
 <script type="application/ld+json">
-[{"@context": "https://schema.org", "@type": "Article", "headline": "作業員招不到人怎麼辦？中小企業 6 個實用招募方法", "datePublished": "2026-10-30", "dateModified": "2026-10-30", "about": "正職代招", "keywords": "作業員招不到人,作業員招募,工廠缺工,基層招募,正職代招", "inLanguage": "zh-Hant-TW", "image": "https://job365hire.com.tw/hire/guide/cover-operator-hiring.jpg?v=3", "author": {"@id": "https://job365hire.com.tw/#org"}, "publisher": {"@id": "https://job365hire.com.tw/#org"}, "mainEntityOfPage": "https://job365hire.com.tw/hire/guide/operator-hiring.html"}, {"@context": "https://schema.org", "@type": "BreadcrumbList", "itemListElement": [{"@type": "ListItem", "position": 1, "name": "JOB365", "item": "https://job365hire.com.tw/"}, {"@type": "ListItem", "position": 2, "name": "正職代招", "item": "https://job365hire.com.tw/hire/"}, {"@type": "ListItem", "position": 3, "name": "招募指南", "item": "https://job365hire.com.tw/hire/guide/"}, {"@type": "ListItem", "position": 4, "name": "作業員招不到人怎麼辦？"}]}, {"@context": "https://schema.org", "@type": "FAQPage", "mainEntity": [{"@type": "Question", "name": "為什麼作業員越來越難招？", "acceptedAnswer": {"@type": "Answer", "text": "勞動部調查顯示 2026 年 6 月底製造業職缺約 11.1 萬個、年增 27.2%，企業對外招募平均約 3.1 個月，搶人競爭變激烈。"}}, {"@type": "Question", "name": "作業員職缺薪資要怎麼寫比較有人投？", "acceptedAnswer": {"@type": "Answer", "text": "寫出含輪班津貼、全勤與加班的實拿範圍，例如月薪 32,000～38,000 元，比只寫基本工資起更吸引人。"}}, {"@type": "Question", "name": "2026 年基本工資是多少？", "acceptedAnswer": {"@type": "Answer", "text": "2026 年起基本工資為月薪 29,500 元、時薪 196 元。"}}, {"@type": "Question", "name": "作業員可以找代招嗎？", "acceptedAnswer": {"@type": "Answer", "text": "可以。中基層獵才專做作業員等中基層正職，人選報到才收費，只收第一個月、最多約一個月薪資。"}}]}]
+[{"@context": "https://schema.org", "@type": "Article", "headline": "作業員招不到人怎麼辦？中小企業 6 個實用招募方法", "datePublished": "2026-10-30", "dateModified": "2026-10-30", "about": "正職代招", "keywords": "作業員招不到人,作業員招募,工廠缺工,基層招募,正職代招", "inLanguage": "zh-Hant-TW", "image": "https://job365hire.com.tw/hire/guide/cover-operator-hiring.jpg?v=4", "author": {"@id": "https://job365hire.com.tw/#org"}, "publisher": {"@id": "https://job365hire.com.tw/#org"}, "mainEntityOfPage": "https://job365hire.com.tw/hire/guide/operator-hiring.html"}, {"@context": "https://schema.org", "@type": "BreadcrumbList", "itemListElement": [{"@type": "ListItem", "position": 1, "name": "JOB365", "item": "https://job365hire.com.tw/"}, {"@type": "ListItem", "position": 2, "name": "正職代招", "item": "https://job365hire.com.tw/hire/"}, {"@type": "ListItem", "position": 3, "name": "招募指南", "item": "https://job365hire.com.tw/hire/guide/"}, {"@type": "ListItem", "position": 4, "name": "作業員招不到人怎麼辦？"}]}, {"@context": "https://schema.org", "@type": "FAQPage", "mainEntity": [{"@type": "Question", "name": "為什麼作業員越來越難招？", "acceptedAnswer": {"@type": "Answer", "text": "勞動部調查顯示 2026 年 6 月底製造業職缺約 11.1 萬個、年增 27.2%，企業對外招募平均約 3.1 個月，搶人競爭變激烈。"}}, {"@type": "Question", "name": "作業員職缺薪資要怎麼寫比較有人投？", "acceptedAnswer": {"@type": "Answer", "text": "寫出含輪班津貼、全勤與加班的實拿範圍，例如月薪 32,000～38,000 元，比只寫基本工資起更吸引人。"}}, {"@type": "Question", "name": "2026 年基本工資是多少？", "acceptedAnswer": {"@type": "Answer", "text": "2026 年起基本工資為月薪 29,500 元、時薪 196 元。"}}, {"@type": "Question", "name": "作業員可以找代招嗎？", "acceptedAnswer": {"@type": "Answer", "text": "可以。中基層獵才專做作業員等中基層正職，人選報到才收費，只收第一個月、最多約一個月薪資。"}}]}]
 </script>
 
 <script>!function(f,b,e,v,n,t,s){if(f.fbq)return;n=f.fbq=function(){n.callMethod?n.callMethod.apply(n,arguments):n.queue.push(arguments)};if(!f._fbq)f._fbq=n;n.push=n;n.loaded=!0;n.version='2.0';n.queue=[];t=b.createElement(e);t.async=!0;t.src=v;s=b.getElementsByTagName(e)[0];s.parentNode.insertBefore(t,s)}(window,document,'script','https://connect.facebook.net/en_US/fbevents.js');fbq('init','1635805244779203');fbq('track','PageView');document.addEventListener('click',function(e){var a=e.target.closest&&e.target.closest('a[href]');if(a&&/^(tel:|https:\/\/(line\.me|lin\.ee)\/)/.test(a.getAttribute('href')))fbq('track','Contact');});</script>
@@ -107,7 +107,7 @@ visibleID = setInterval(() => {
   <p class="tag">招募技巧</p>
   <h1>作業員招不到人怎麼辦？中小企業 6 個實用招募方法</h1>
   <p class="meta">JOB365中基層獵才・2026 年 10 月 30 日</p>
-  <img class="cover" src="/hire/guide/cover-operator-hiring.jpg?v=3" alt="作業員招不到人怎麼辦？中小企業 6 個實用招募方法" width="1200" height="630" style="width:100%;height:auto">
+  <img class="cover" src="/hire/guide/cover-operator-hiring.jpg?v=4" alt="作業員招不到人怎麼辦？中小企業 6 個實用招募方法" width="1200" height="630" style="width:100%;height:auto">
 
   <p class="answer"><b>簡答：</b>作業員招不到人，可以先把實拿薪資範圍、班別與福利寫清楚，履歷進來當天聯繫、縮短錄取流程，並多管道曝光；人力不足時，可交給正職代招主動找人。</p>
 

diff --git a/hire/guide/hidden-hiring-cost.html b/hire/guide/hidden-hiring-cost.html
@@ -79,10 +79,10 @@ visibleID = setInterval(() => {
 <meta property="og:type" content="article">
 <meta property="og:title" content="招募成本怎麼算？中小企業自己招人的隱形成本試算">
 <meta property="og:description" content="招募成本不只人力銀行刊登費，還包括篩履歷、邀約、面試、職缺空窗與重招工時。用試算拆解中小企業自己招人的隱形成本，並比較正職代招的分工。">
-<meta property="og:image" content="https://job365hire.com.tw/hire/guide/cover-hidden-hiring-cost.jpg?v=3">
+<meta property="og:image" content="https://job365hire.com.tw/hire/guide/cover-hidden-hiring-cost.jpg?v=4">
 <meta property="og:url" content="https://job365hire.com.tw/hire/guide/hidden-hiring-cost.html">
 <script type="application/ld+json">
-[{"@context": "https://schema.org", "@type": "Article", "headline": "招募成本怎麼算？中小企業自己招人的隱形成本試算", "datePublished": "2026-10-30", "dateModified": "2026-11-11", "about": "正職代招", "keywords": "招募成本,招募成本計算,隱形招募成本,自己招人,正職代招", "inLanguage": "zh-Hant-TW", "image": "https://job365hire.com.tw/hire/guide/cover-hidden-hiring-cost.jpg?v=3", "author": {"@id": "https://job365hire.com.tw/#org"}, "publisher": {"@id": "https://job365hire.com.tw/#org"}, "mainEntityOfPage": "https://job365hire.com.tw/hire/guide/hidden-hiring-cost.html"}, {"@context": "https://schema.org", "@type": "BreadcrumbList", "itemListElement": [{"@type": "ListItem", "position": 1, "name": "JOB365", "item": "https://job365hire.com.tw/"}, {"@type": "ListItem", "position": 2, "name": "正職代招", "item": "https://job365hire.com.tw/hire/"}, {"@type": "ListItem", "position": 3, "name": "招募指南", "item": "https://job365hire.com.tw/hire/guide/"}, {"@type": "ListItem", "position": 4, "name": "自己招人的隱形成本"}]}, {"@context": "https://schema.org", "@type": "FAQPage", "mainEntity": [{"@type": "Question", "name": "招募成本包含哪些？", "acceptedAnswer": {"@type": "Answer", "text": "刊登費、HR 或主管的工時、職缺空窗造成的產能損失與同事加班，以及招錯人需要重來的成本。"}}, {"@type": "Question", "name": "HR 時薪怎麼換算？", "acceptedAnswer": {"@type": "Answer", "text": "月薪 ÷ 30 天 ÷ 8 小時，例如月薪 40,000 元約為時薪 167 元。"}}, {"@type": "Question", "name": "企業招募一個人平均要多久？", "acceptedAnswer": {"@type": "Answer", "text": "勞動部職缺調查顯示，企業對外招募平均約需 3.1 個月。"}}, {"@type": "Question", "name": "找正職代招會比較省嗎？", "acceptedAnswer": {"@type": "Answer", "text": "正職代招由顧問負責找人與篩人，中基層獵才只收人選第一個月、最多約一個月薪資，報到才收費。"}}]}]
+[{"@context": "https://schema.org", "@type": "Article", "headline": "招募成本怎麼算？中小企業自己招人的隱形成本試算", "datePublished": "2026-10-30", "dateModified": "2026-11-11", "about": "正職代招", "keywords": "招募成本,招募成本計算,隱形招募成本,自己招人,正職代招", "inLanguage": "zh-Hant-TW", "image": "https://job365hire.com.tw/hire/guide/cover-hidden-hiring-cost.jpg?v=4", "author": {"@id": "https://job365hire.com.tw/#org"}, "publisher": {"@id": "https://job365hire.com.tw/#org"}, "mainEntityOfPage": "https://job365hire.com.tw/hire/guide/hidden-hiring-cost.html"}, {"@context": "https://schema.org", "@type": "BreadcrumbList", "itemListElement": [{"@type": "ListItem", "position": 1, "name": "JOB365", "item": "https://job365hire.com.tw/"}, {"@type": "ListItem", "position": 2, "name": "正職代招", "item": "https://job365hire.com.tw/hire/"}, {"@type": "ListItem", "position": 3, "name": "招募指南", "item": "https://job365hire.com.tw/hire/guide/"}, {"@type": "ListItem", "position": 4, "name": "自己招人的隱形成本"}]}, {"@context": "https://schema.org", "@type": "FAQPage", "mainEntity": [{"@type": "Question", "name": "招募成本包含哪些？", "acceptedAnswer": {"@type": "Answer", "text": "刊登費、HR 或主管的工時、職缺空窗造成的產能損失與同事加班，以及招錯人需要重來的成本。"}}, {"@type": "Question", "name": "HR 時薪怎麼換算？", "acceptedAnswer": {"@type": "Answer", "text": "月薪 ÷ 30 天 ÷ 8 小時，例如月薪 40,000 元約為時薪 167 元。"}}, {"@type": "Question", "name": "企業招募一個人平均要多久？", "acceptedAnswer": {"@type": "Answer", "text": "勞動部職缺調查顯示，企業對外招募平均約需 3.1 個月。"}}, {"@type": "Question", "name": "找正職代招會比較省嗎？", "acceptedAnswer": {"@type": "Answer", "text": "正職代招由顧問負責找人與篩人，中基層獵才只收人選第一個月、最多約一個月薪資，報到才收費。"}}]}]
 </script>
 
 <script>!function(f,b,e,v,n,t,s){if(f.fbq)return;n=f.fbq=function(){n.callMethod?n.callMethod.apply(n,arguments):n.queue.push(arguments)};if(!f._fbq)f._fbq=n;n.push=n;n.loaded=!0;n.version='2.0';n.queue=[];t=b.createElement(e);t.async=!0;t.src=v;s=b.getElementsByTagName(e)[0];s.parentNode.insertBefore(t,s)}(window,document,'script','https://connect.facebook.net/en_US/fbevents.js');fbq('init','1635805244779203');fbq('track','PageView');document.addEventListener('click',function(e){var a=e.target.closest&&e.target.closest('a[href]');if(a&&/^(tel:|https:\/\/(line\.me|lin\.ee)\/)/.test(a.getAttribute('href')))fbq('track','Contact');});</script>
@@ -107,7 +107,7 @@ visibleID = setInterval(() => {
   <p class="tag">招募費用</p>
   <h1>招募成本怎麼算？中小企業自己招人的隱形成本試算</h1>
   <p class="meta">JOB365中基層獵才・2026 年 10 月 30 日</p>
-  <img class="cover" src="/hire/guide/cover-hidden-hiring-cost.jpg?v=3" alt="招募成本怎麼算？中小企業自己招人的隱形成本試算" width="1200" height="630" style="width:100%;height:auto">
+  <img class="cover" src="/hire/guide/cover-hidden-hiring-cost.jpg?v=4" alt="招募成本怎麼算？中小企業自己招人的隱形成本試算" width="1200" height="630" style="width:100%;height:auto">
 
   <p class="answer"><b>簡答：</b>自己招人的成本不只刊登費，還包括 HR 或主管篩履歷、邀約、面試的工時，職缺空窗的產能損失，以及招錯人重來的成本；企業對外招募平均約需 3.1 個月。職缺已經空了一段時間、HR 或主管又抽不出時間篩人時，可以把找人交給正職代招，人選報到才收費，最多約一個月薪資。</p>
 

diff --git a/hire/guide/interview-no-show.html b/hire/guide/interview-no-show.html
@@ -79,10 +79,10 @@ visibleID = setInterval(() => {
 <meta property="og:type" content="article">
 <meta property="og:title" content="面試爽約怎麼辦？降低求職者放鴿子的 7 個做法">
 <meta property="og:description" content="約好的面試人沒來，是中小企業 HR 最常見的困擾。整理 7 個降低面試爽約的實用做法：快速聯繫、清楚的邀約訊息、前一天提醒、彈性時段、縮短流程等。">
-<meta property="og:image" content="https://job365hire.com.tw/hire/guide/cover-interview-no-show.jpg?v=3">
+<meta property="og:image" content="https://job365hire.com.tw/hire/guide/cover-interview-no-show.jpg?v=4">
 <meta property="og:url" content="https://job365hire.com.tw/hire/guide/interview-no-show.html">
 <script type="application/ld+json">
-[{"@context": "https://schema.org", "@type": "Article", "headline": "面試爽約怎麼辦？降低求職者放鴿子的 7 個做法", "datePublished": "2026-10-30", "dateModified": "2026-10-30", "about": "正職代招", "keywords": "面試爽約,面試放鴿子,面試沒來,降低爽約率,招募技巧", "inLanguage": "zh-Hant-TW", "image": "https://job365hire.com.tw/hire/guide/cover-interview-no-show.jpg?v=3", "author": {"@id": "https://job365hire.com.tw/#org"}, "publisher": {"@id": "https://job365hire.com.tw/#org"}, "mainEntityOfPage": "https://job365hire.com.tw/hire/guide/interview-no-show.html"}, {"@context": "https://schema.org", "@type": "BreadcrumbList", "itemListElement": [{"@type": "ListItem", "position": 1, "name": "JOB365", "item": "https://job365hire.com.tw/"}, {"@type": "ListItem", "position": 2, "name": "正職代招", "item": "https://job365hire.com.tw/hire/"}, {"@type": "ListItem", "position": 3, "name": "招募指南", "item": "https://job365hire.com.tw/hire/guide/"}, {"@type": "ListItem", "position": 4, "name": "面試爽約怎麼辦？"}]}, {"@context": "https://schema.org", "@type": "FAQPage", "mainEntity": [{"@type": "Question", "name": "求職者為什麼會面試爽約？", "acceptedAnswer": {"@type": "Answer", "text": "常見原因包括臨時有事、身體不適、覺得公司不適合，或已經找到其他工作。"}}, {"@type": "Question", "name": "面試前要提醒幾次？", "acceptedAnswer": {"@type": "Answer", "text": "建議前一天確認一次、當天出發前再提醒一次。"}}, {"@type": "Question", "name": "面試邀約訊息要寫哪些內容？", "acceptedAnswer": {"@type": "Answer", "text": "日期時間、公司名稱、詳細地址與地圖連結、交通與停車資訊、要帶的證件、聯絡人與電話。"}}, {"@type": "Question", "name": "代招可以降低爽約嗎？", "acceptedAnswer": {"@type": "Answer", "text": "中基層獵才顧問會先與人選一對一面談，確認意願、班別與通勤後才推薦，企業只需面試有意願的人選。"}}]}]
+[{"@context": "https://schema.org", "@type": "Article", "headline": "面試爽約怎麼辦？降低求職者放鴿子的 7 個做法", "datePublished": "2026-10-30", "dateModified": "2026-10-30", "about": "正職代招", "keywords": "面試爽約,面試放鴿子,面試沒來,降低爽約率,招募技巧", "inLanguage": "zh-Hant-TW", "image": "https://job365hire.com.tw/hire/guide/cover-interview-no-show.jpg?v=4", "author": {"@id": "https://job365hire.com.tw/#org"}, "publisher": {"@id": "https://job365hire.com.tw/#org"}, "mainEntityOfPage": "https://job365hire.com.tw/hire/guide/interview-no-show.html"}, {"@context": "https://schema.org", "@type": "BreadcrumbList", "itemListElement": [{"@type": "ListItem", "position": 1, "name": "JOB365", "item": "https://job365hire.com.tw/"}, {"@type": "ListItem", "position": 2, "name": "正職代招", "item": "https://job365hire.com.tw/hire/"}, {"@type": "ListItem", "position": 3, "name": "招募指南", "item": "https://job365hire.com.tw/hire/guide/"}, {"@type": "ListItem", "position": 4, "name": "面試爽約怎麼辦？"}]}, {"@context": "https://schema.org", "@type": "FAQPage", "mainEntity": [{"@type": "Question", "name": "求職者為什麼會面試爽約？", "acceptedAnswer": {"@type": "Answer", "text": "常見原因包括臨時有事、身體不適、覺得公司不適合，或已經找到其他工作。"}}, {"@type": "Question", "name": "面試前要提醒幾次？", "acceptedAnswer": {"@type": "Answer", "text": "建議前一天確認一次、當天出發前再提醒一次。"}}, {"@type": "Question", "name": "面試邀約訊息要寫哪些內容？", "acceptedAnswer": {"@type": "Answer", "text": "日期時間、公司名稱、詳細地址與地圖連結、交通與停車資訊、要帶的證件、聯絡人與電話。"}}, {"@type": "Question", "name": "代招可以降低爽約嗎？", "acceptedAnswer": {"@type": "Answer", "text": "中基層獵才顧問會先與人選一對一面談，確認意願、班別與通勤後才推薦，企業只需面試有意願的人選。"}}]}]
 </script>
 
 <script>!function(f,b,e,v,n,t,s){if(f.fbq)return;n=f.fbq=function(){n.callMethod?n.callMethod.apply(n,arguments):n.queue.push(arguments)};if(!f._fbq)f._fbq=n;n.push=n;n.loaded=!0;n.version='2.0';n.queue=[];t=b.createElement(e);t.async=!0;t.src=v;s=b.getElementsByTagName(e)[0];s.parentNode.insertBefore(t,s)}(window,document,'script','https://connect.facebook.net/en_US/fbevents.js');fbq('init','1635805244779203');fbq('track','PageView');document.addEventListener('click',function(e){var a=e.target.closest&&e.target.closest('a[href]');if(a&&/^(tel:|https:\/\/(line\.me|lin\.ee)\/)/.test(a.getAttribute('href')))fbq('track','Contact');});</script>
@@ -107,7 +107,7 @@ visibleID = setInterval(() => {
   <p class="tag">招募技巧</p>
   <h1>面試爽約怎麼辦？降低求職者放鴿子的 7 個做法</h1>
   <p class="meta">JOB365中基層獵才・2026 年 10 月 30 日</p>
-  <img class="cover" src="/hire/guide/cover-interview-no-show.jpg?v=3" alt="面試爽約怎麼辦？降低求職者放鴿子的 7 個做法" width="1200" height="630" style="width:100%;height:auto">
+  <img class="cover" src="/hire/guide/cover-interview-no-show.jpg?v=4" alt="面試爽約怎麼辦？降低求職者放鴿子的 7 個做法" width="1200" height="630" style="width:100%;height:auto">
 
   <p class="answer"><b>簡答：</b>降低面試爽約最有用的做法是：履歷進來當天聯繫、邀約訊息寫清楚時間地址與交通、面試前一天和當天各提醒一次、提供彈性時段並縮短面試流程。</p>
 
